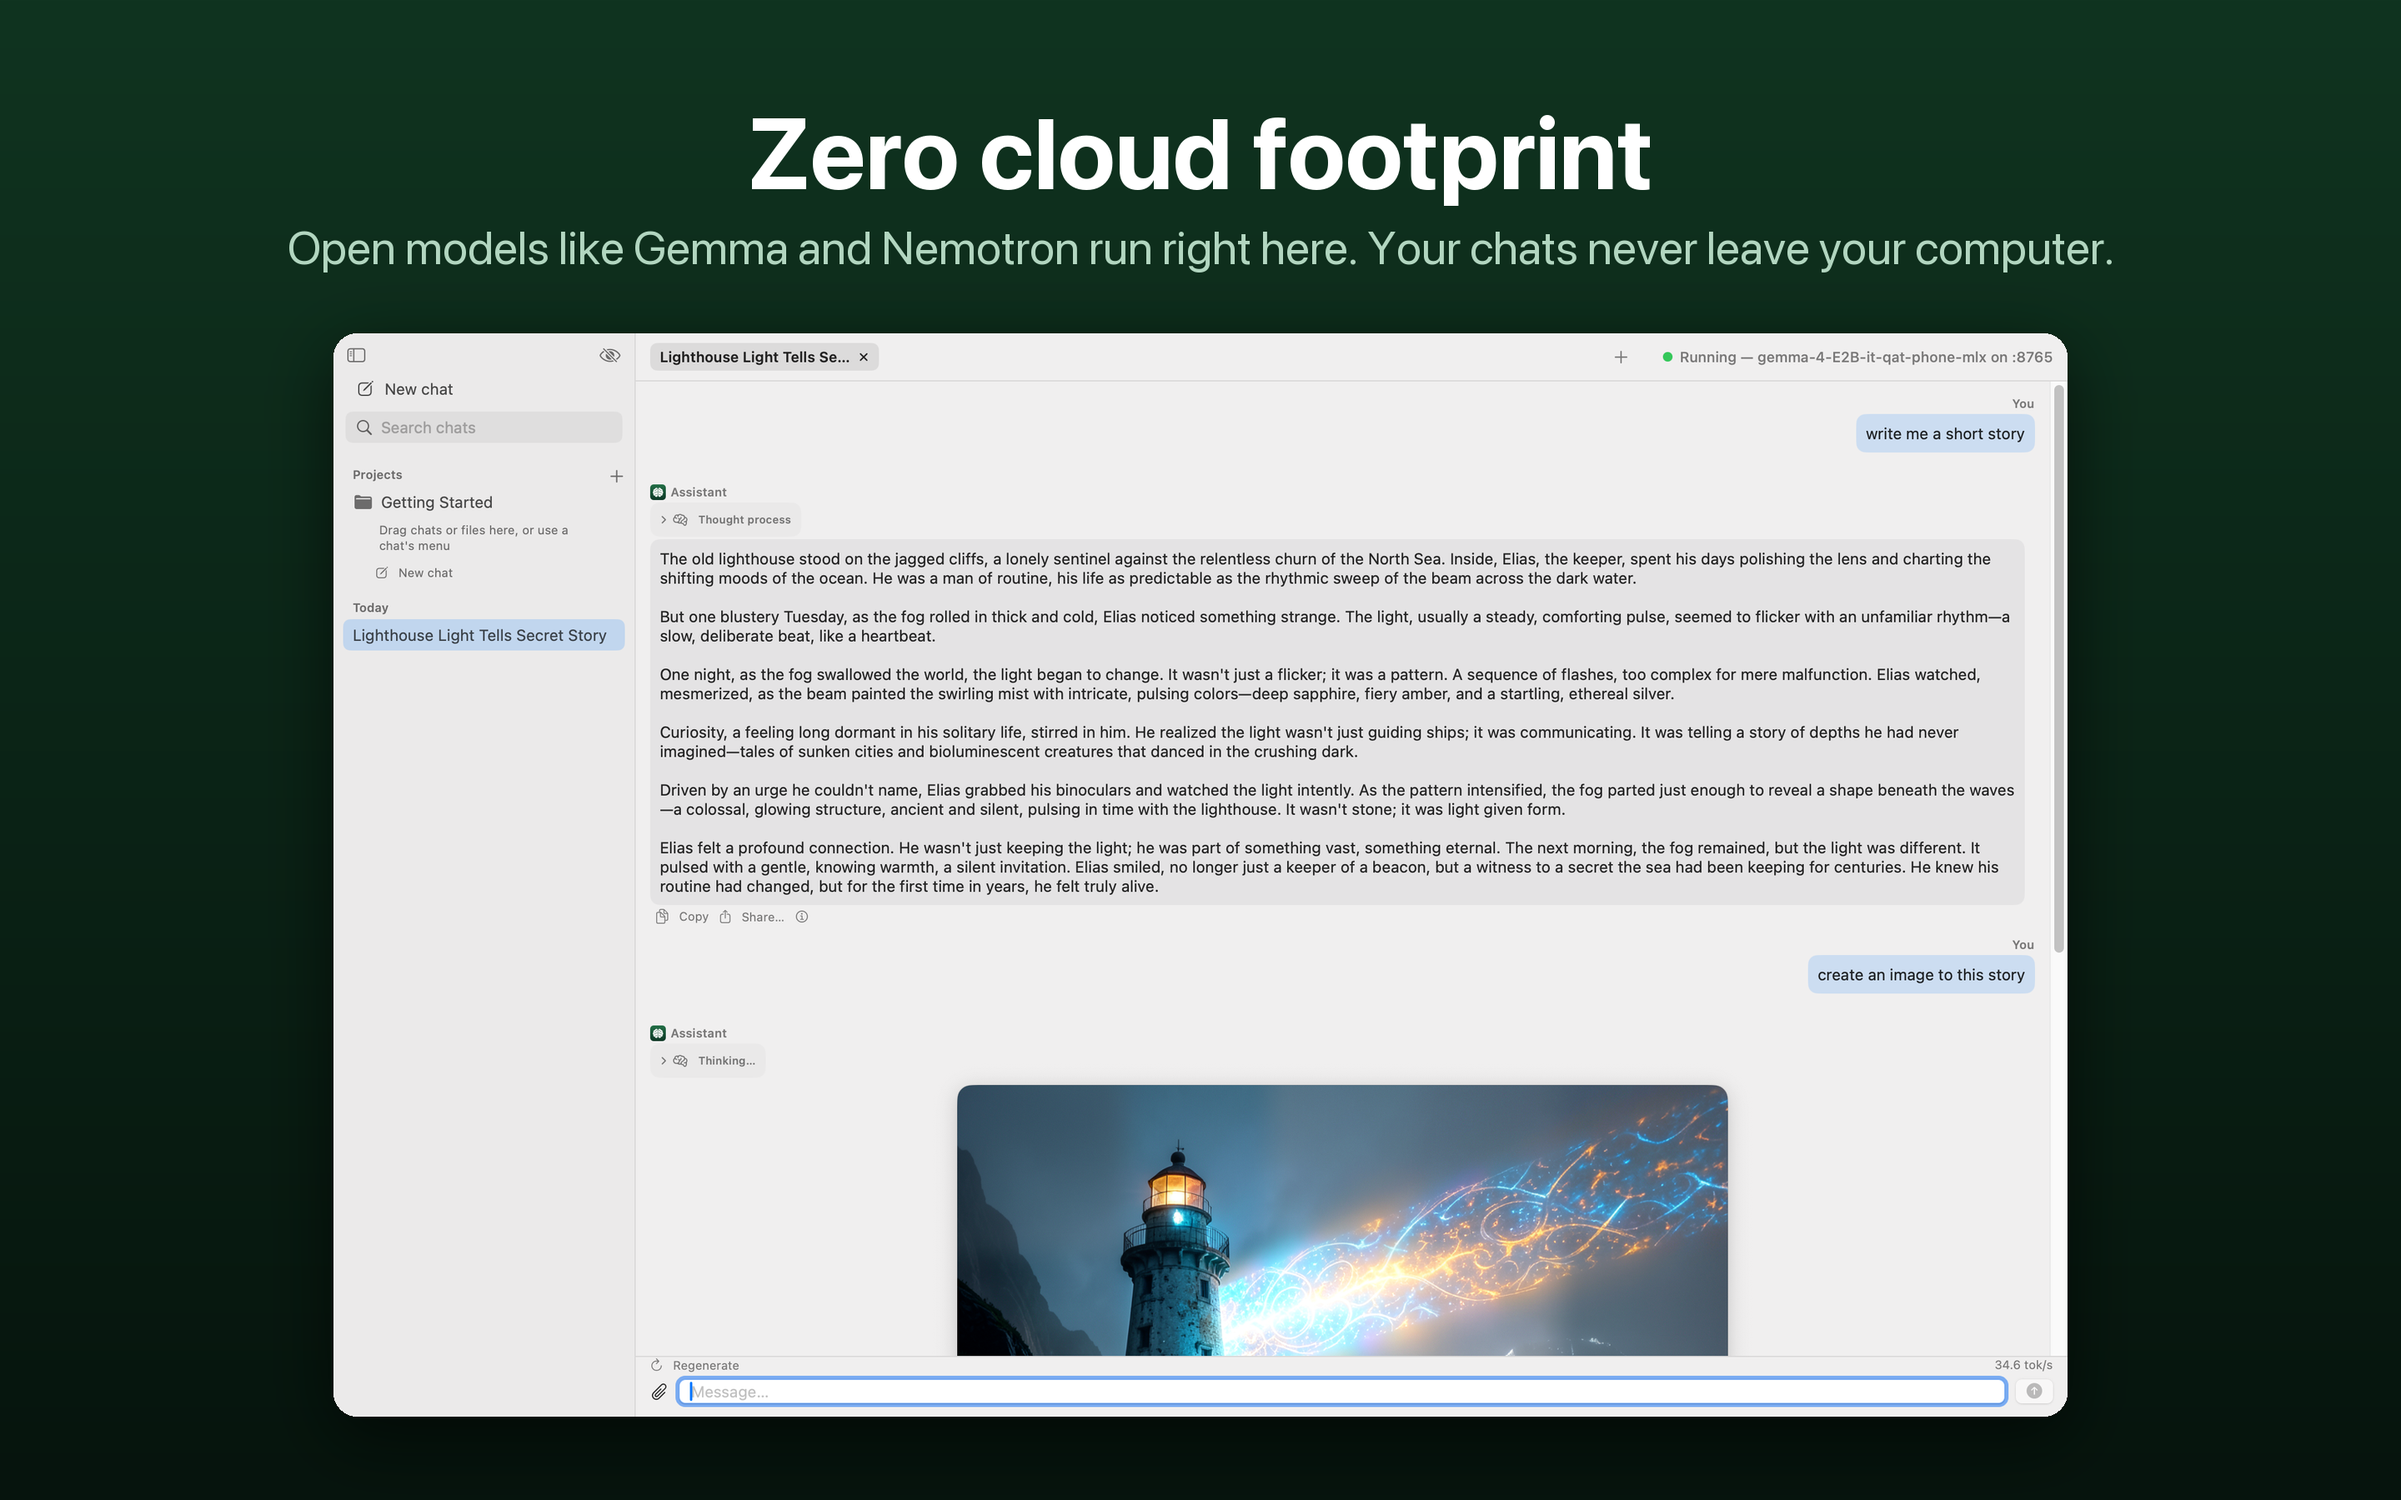
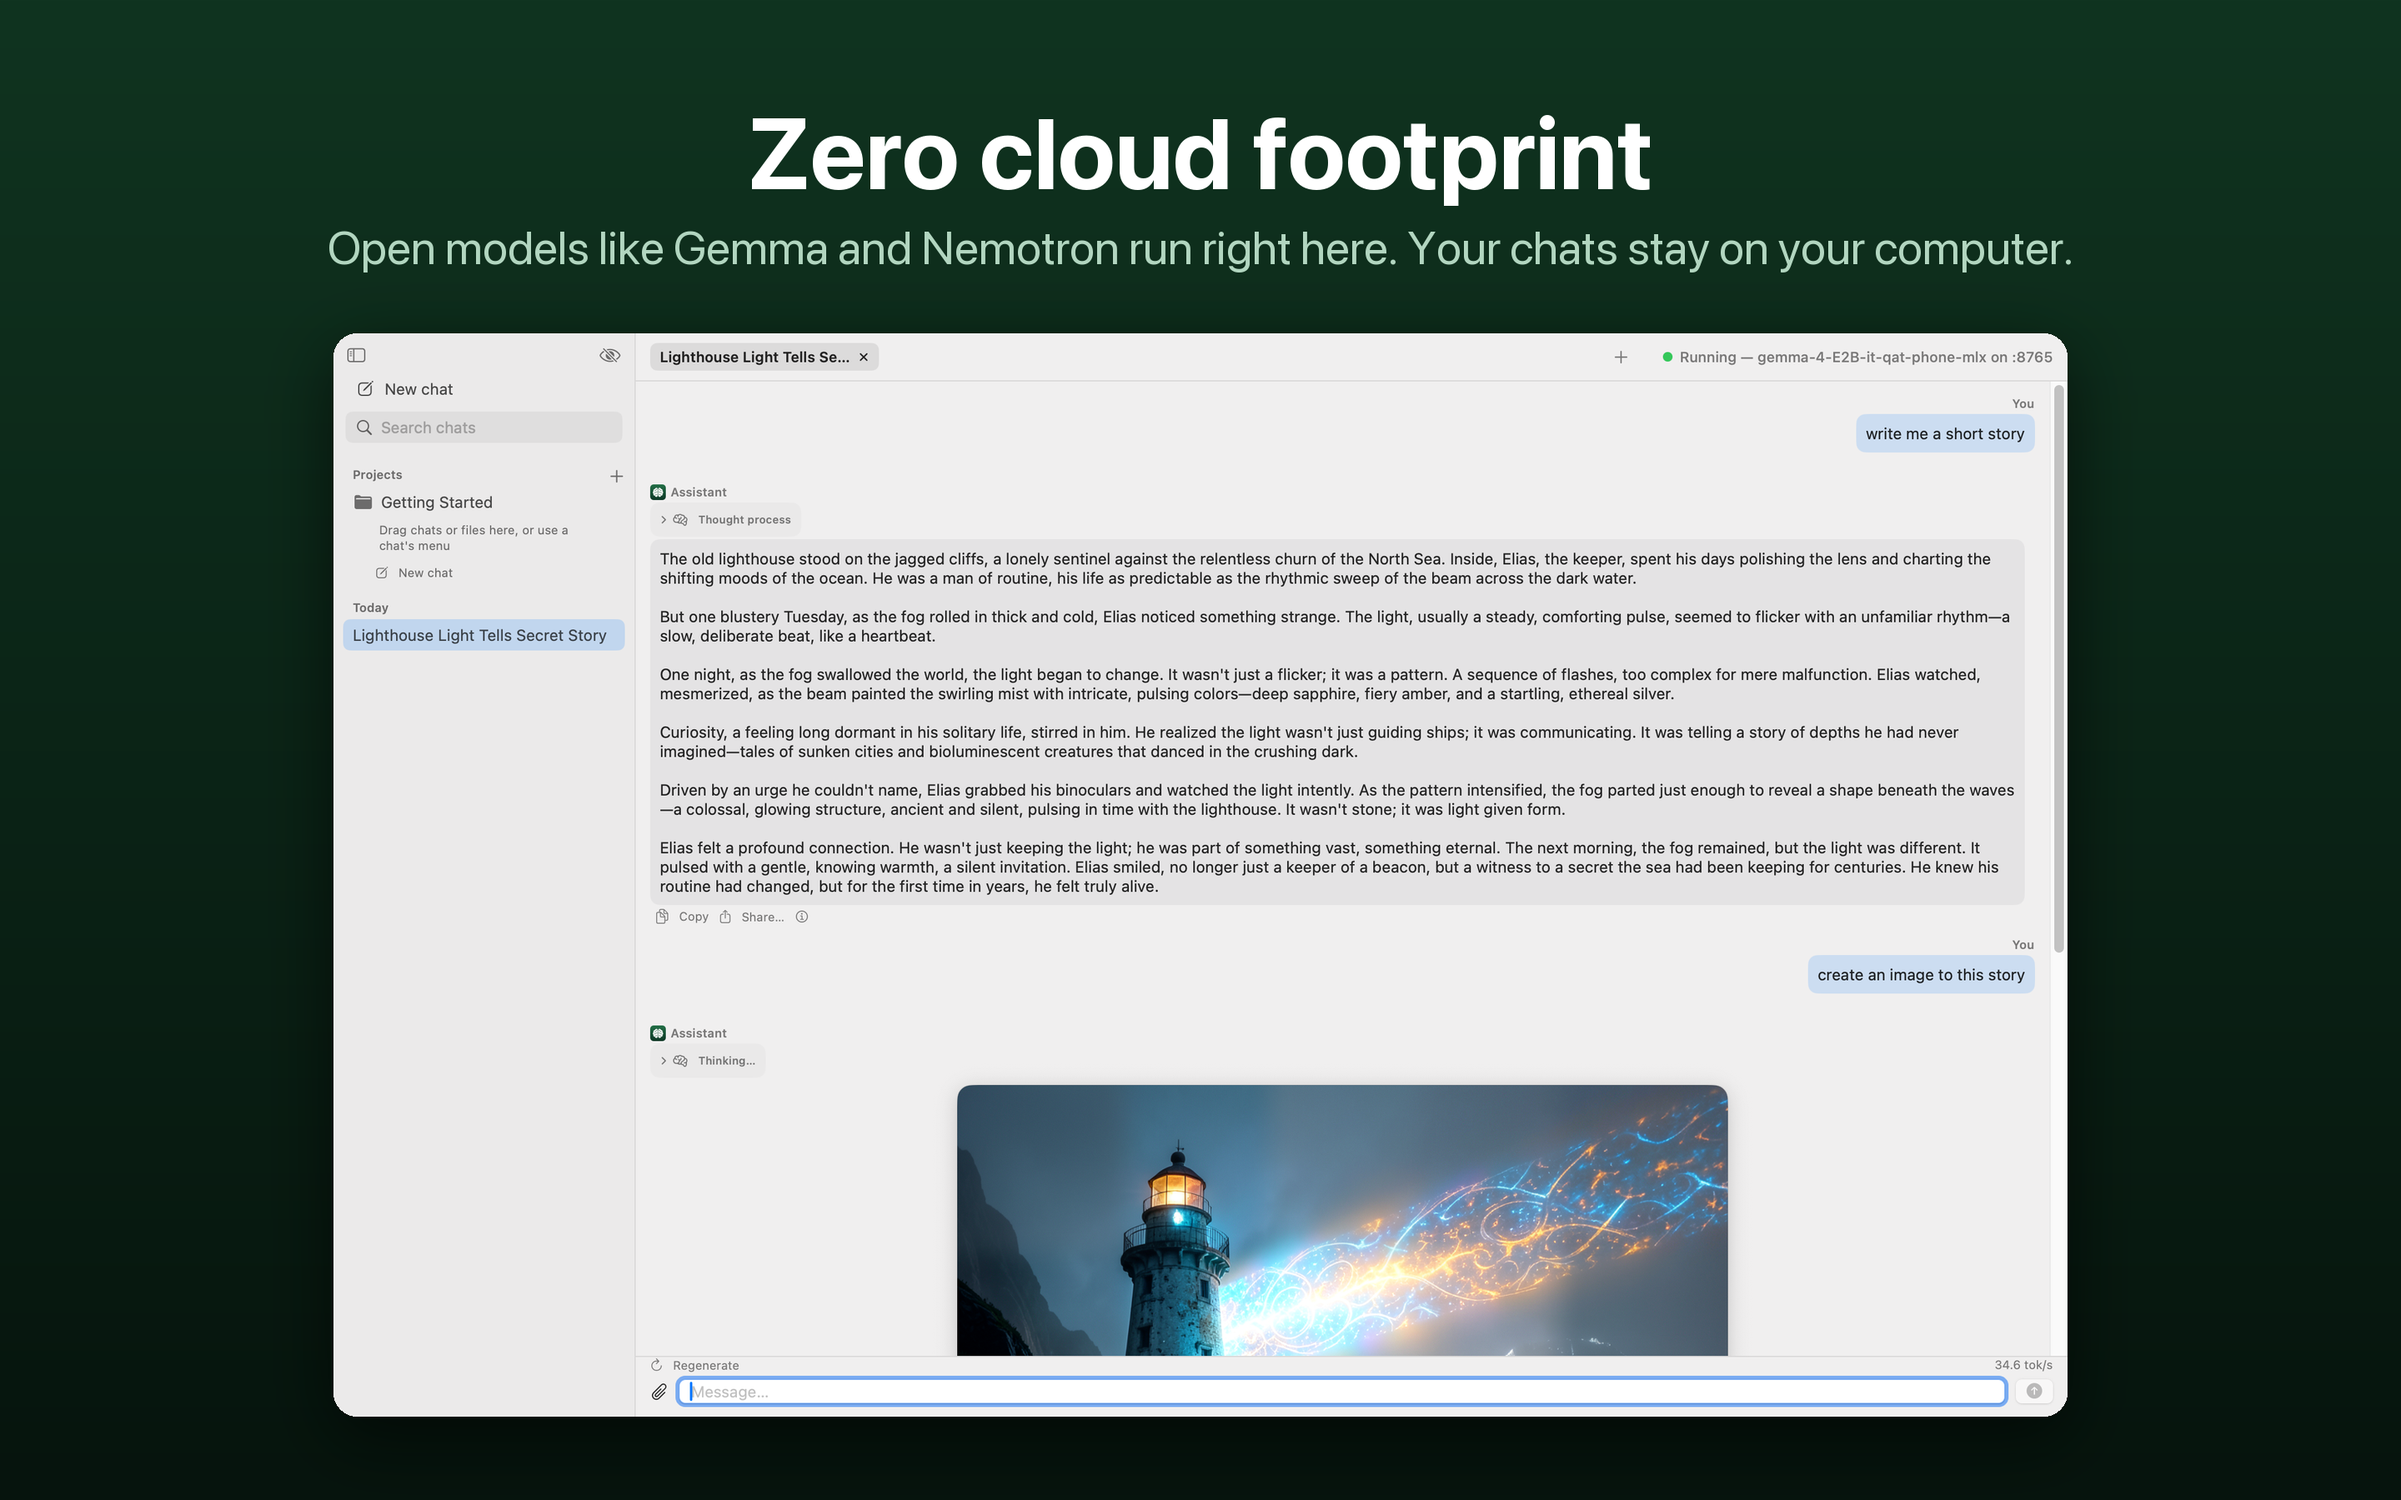
Screenshot 03: chats stay on your computer (optional web tools send queries out)
Claude-Session: https://claude.ai/code/session_01XhEwWJCoJPXFyyCzp988Bx

Changed region(s): [[0.125, 0.1556, 0.875, 0.1867]]

diff --git a/scripts/appstore/compose_screenshots.py b/scripts/appstore/compose_screenshots.py
@@ -24,7 +24,7 @@ shots = [
  ("02-music", "LLMTray-08-music.png", (0, 60, 2880, 1645),
   "Make a song", "A song with vocals from a description, made right here."),
  ("03-chat", "LLMTray-02-chat.png", None,
-  "Zero cloud footprint", "Open models like Gemma and Nemotron run right here. Your chats never leave your computer."),
+  "Zero cloud footprint", "Open models like Gemma and Nemotron run right here. Your chats stay on your computer."),
  ("04-getting-started", "LLMTray-03-getting-started.png", NO_MENUBAR,
   "Up and running in minutes", "A guided start: chat, add your files, turn on images, music and voice."),
  ("05-models", "LLMTray-04-models.png", SETTINGS,
